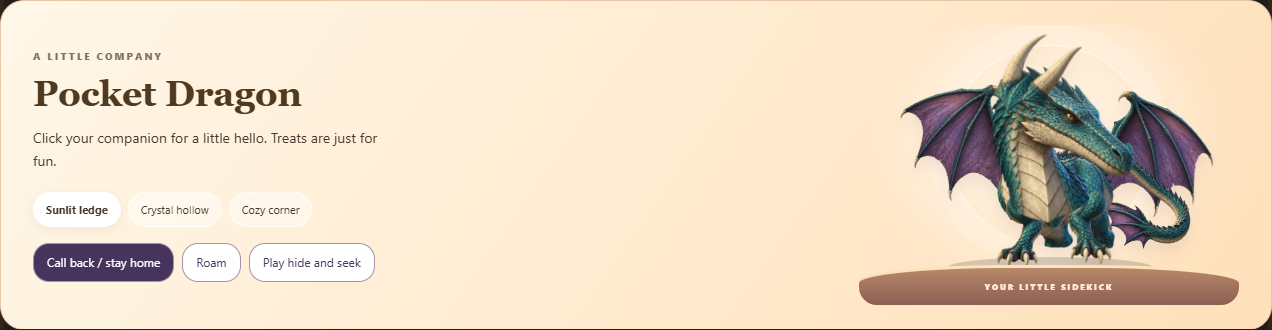
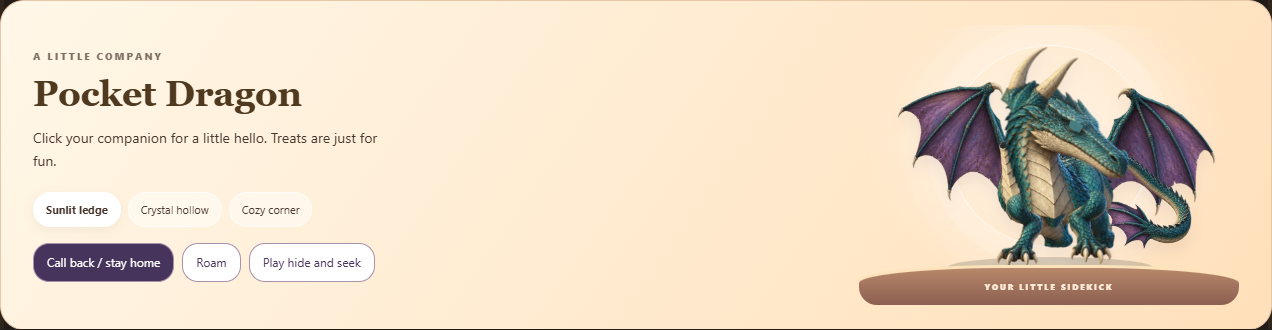
Fix validation bugs: prevent negative transfers/prices and self-transfers

Changed region(s): [[0.7052, 0.1212, 0.9811, 0.7576]]

diff --git a/public/companions.js b/public/companions.js
@@ -1,27 +1,30 @@
-/* Textured animal companions: each joint is a separate local cutout. */
+/* Rig v5: attached cutouts share a torso transform and explicit joint anchors. */
 (() => {
- const image=(kind,part,x,y,w,h)=>`<image href="assets/companions/${kind}/${part}.webp" x="${x}" y="${y}" width="${w}" height="${h}" preserveAspectRatio="xMidYMid meet"/>`;
+ const image=(kind,part,x,y,w,h)=>`<image href="assets/companions/${kind}/${part}.webp?v=rig5" x="${x}" y="${y}" width="${w}" height="${h}" preserveAspectRatio="xMidYMid meet"/>`;
  const joint=(cls,x,y,content)=>`<g class="${cls}" style="transform-box:view-box;transform-origin:${x}px ${y}px">${content}</g>`;
  const rigs={
-  fox:{body:[87,109,123,108],head:[67,75,132,91],tail:[158,150,105,75],left:[97,53,40,51],right:[144,54,38,51],pawLeft:[103,159,37,65],pawRight:[156,161,37,64],crest:[132,83,13,19],neck:[132,149]},
-  dragon:{body:[96,119,120,97],head:[100,62,123,132],tail:[178,131,99,83],left:[13,65,115,132],right:[183,66,110,132],pawLeft:[101,169,49,62],pawRight:[161,169,50,62],crest:[103,35,75,66],neck:[149,152]},
-  snail:{body:[38,126,229,100],head:[41,141,63,71],tail:[96,76,137,139],left:[47,101,28,68],right:[75,103,28,68],pawLeft:[34,173,26,22],pawRight:[67,175,25,21],crest:[150,76,18,25],neck:[74,187]}
+  fox:{body:[91,111,119,108],head:[87,69,105,97],tail:[158,150,105,75],left:[101,48,36,46],right:[143,50,33,45],pawLeft:[103,159,37,65],pawRight:[156,161,37,64],crest:[145,85,10,14],neck:[131,150]},
+  dragon:{body:[96,119,120,97],head:[102,76,126,115],tail:[178,131,99,83],left:[13,65,115,132],right:[183,66,110,132],pawLeft:[101,169,49,62],pawRight:[161,169,50,62],crest:[108,46,68,57],neck:[149,152]},
+  snail:{body:[33,145,231,80],head:[50,158,48,54],tail:[96,76,137,139],left:[51,126,21,52],right:[75,127,21,52],pawLeft:[43,181,21,17],pawRight:[69,184,19,16],crest:[150,76,18,25],neck:[74,187]}
  };
  function draw(kind){
   const r=rigs[kind],part=(name,box)=>image(kind,name,...box);
   const tailAnchor=kind==='fox'?[184,174]:kind==='dragon'?[199,187]:[162,205];
   const tail=joint(kind==='snail'?'companion-shell':'companion-tail',...tailAnchor,part('tail',r.tail));
   const wings=kind==='dragon'?joint('companion-wing wing-left',120,159,part('left',r.left))+joint('companion-wing wing-right',184,160,part('right',r.right)):'';
-  const earAnchors=kind==='fox'?[[130,89],[152,89]]:[[63,163],[89,165]];
+  const earAnchors=kind==='fox'?[[130,84],[151,83]]:[[66,174],[86,175]];
   const ears=kind==='dragon'?'':joint('companion-ear',...earAnchors[0],part('left',r.left))+joint('companion-ear companion-ear-right',...earAnchors[1],part('right',r.right));
-  const lids=kind==='fox'?'<g class="companion-eyelids"><path d="M134 100q8-3 13 3l-1 4q-8 1-13-4Z" fill="#ac6834"/><path d="M163 100q4-3 7 1l-1 5-6-1Z" fill="#ac6834"/><path d="m135 103 10 1m19-1 5 1" stroke="#583c28" stroke-width=".7"/></g>':kind==='dragon'?'<g class="companion-eyelids"><path d="M163 99q7-1 12 7l-4 5q-8-3-10-7Z" fill="#467f83"/><path d="m164 104 9 4" stroke="#243d37" stroke-width=".8"/></g>':'';
+  const lids=kind==='fox'?'<g class="companion-eyelids"><path d="M140 96q8-3 14 4l-2 4q-8 0-12-4Z" fill="#ac6834"/><path d="M172 96q4-2 6 2l-1 5-5-1Z" fill="#ac6834"/></g>':kind==='dragon'?'<g class="companion-eyelids"><path d="M168 108q6-1 11 5l-3 5q-8-2-9-6Z" fill="#467f83"/></g>':'';
   const head=joint('companion-head',...r.neck,ears+part('head',r.head)+lids+(kind==='snail'?'':part('crest',r.crest)));
   const paws=joint('companion-paw care-paw-left',r.pawLeft[0]+20,r.pawLeft[1]+8,part('paw-left',r.pawLeft))+joint('companion-paw care-paw-right',r.pawRight[0]+20,r.pawRight[1]+8,part('paw-right',r.pawRight));
-  const body=joint('companion-body',150,214,part('body',r.body)+paws+head);
-  return wings+(kind==='snail'?body+tail:tail+body);
+  // Everything attached to the torso shares breathing motion. Separate joints
+  // animate inside it, so wings, tail and shell cannot drift away from the body.
+  const torso=part('body',r.body);
+  const layers=kind==='snail'?torso+tail+paws+head:wings+tail+torso+paws+head;
+  return joint('companion-body',150,220,layers);
  }
  window.companionArt=id=>{
   const kind=String(id).split(':')[1];if(!rigs[kind])return '';
-  return `<svg class="companion-illustration companion-textured" data-species="${kind}" viewBox="0 0 300 245" aria-hidden="true" focusable="false"><ellipse cx="151" cy="225" rx="88" ry="9" fill="#182722" opacity=".18"/><g class="companion-character"><g transform="translate(0 ${kind==='dragon'?-7:0})">${draw(kind)}</g></g><g class="companion-hearts" fill="#ff698d"><path d="M96 53c-19-17-27 5 0 21 28-19 18-37 0-21Z"/><path d="M218 25c-14-12-20 4 0 17 20-14 13-27 0-17Z"/></g></svg>`;
+  return `<svg class="companion-illustration companion-textured" data-species="${kind}" data-rig="5" viewBox="0 0 300 245" aria-hidden="true" focusable="false"><ellipse cx="151" cy="225" rx="88" ry="9" fill="#182722" opacity=".18"/><g class="companion-character"><g transform="translate(0 ${kind==='dragon'?-7:0})">${draw(kind)}</g></g><g class="companion-hearts" fill="#ff698d"><path d="M96 53c-19-17-27 5 0 21 28-19 18-37 0-21Z"/><path d="M218 25c-14-12-20 4 0 17 20-14 13-27 0-17Z"/></g></svg>`;
  };
 })();

diff --git a/public/companion-preview.html b/public/companion-preview.html
@@ -3,13 +3,13 @@
 <head>
 <meta charset="utf-8"><meta name="viewport" content="width=device-width,initial-scale=1">
 <title>Animal artwork preview</title>
-<link rel="stylesheet" href="ruby-shop.css?v=20261012-rig-brawl4">
+<link rel="stylesheet" href="ruby-shop.css?v=20261012-rig5-admin">
 <style>
 *{box-sizing:border-box}body{margin:0;background:#162b29;color:#f5ecd5;font:16px system-ui,sans-serif;padding:48px 28px;min-height:100vh}main{max-width:1240px;margin:auto}h1{font:clamp(32px,4vw,52px) Georgia,serif;margin:12px 0}p{color:#b9ccc2;line-height:1.6}.eyebrow{font-size:11px;letter-spacing:.24em;color:#d8b980}.gallery{display:grid;grid-template-columns:repeat(3,minmax(0,1fr));gap:22px;margin:32px 0}.animal-card{border:1px solid #577366;border-radius:22px;background:linear-gradient(145deg,#334a3b,#1b352d);padding:22px;overflow:hidden}.animal-art{height:310px;background:radial-gradient(ellipse at 50% 70%,#b2bb8740,transparent 65%);border-radius:18px}.animal-art svg.companion-illustration{width:100%;height:100%}.animal-card h2{font:26px Georgia,serif;margin:16px 0 8px}.animal-card p{font-size:13px;margin:0;min-height:42px}.controls{display:flex;gap:10px;flex-wrap:wrap;margin-top:20px}button{font:inherit;font-size:13px;border:1px solid #8ba68d;background:#e7dcc0;color:#253c32;border-radius:20px;padding:10px 16px;cursor:pointer}button:hover{background:#fff2d1}button:focus-visible{outline:3px solid #ffe09b;outline-offset:3px}.paused .companion-illustration *{animation-play-state:paused!important}.moving .care-paw-left{animation:preview-step .6s ease-in-out infinite}.moving .care-paw-right{animation:preview-step .6s ease-in-out -.3s infinite}.moving .companion-body{animation:preview-body .6s ease-in-out infinite}.moving [data-species=snail] .companion-body{animation:animal-breathe 1.4s ease-in-out infinite}@keyframes preview-step{50%{transform:translateY(-8px) rotate(5deg)}}@keyframes preview-body{50%{transform:translateY(-2px)}}@media(max-width:850px){.gallery{grid-template-columns:1fr}.animal-art{height:330px}body{padding:28px 16px}.animal-card p{min-height:0}}
 </style>
 </head>
 <body><main><div class="eyebrow">COMPANION ARTWORK · LIVE PREVIEW</div><h1>A little closer to the wild.</h1><p>Natural proportions, detailed materials, and independently animated parts.</p><div class="gallery" id="gallery"></div></main>
-<script src="companions.js?v=20261012-rig-brawl4"></script>
+<script src="companions.js?v=20261012-rig5-admin"></script>
 <script>
 const animals=[['fox','Red fox','Layered fur, pointed muzzle, alert ears, and a sweeping tail.'],['dragon','Crystal dragon','Reptilian scales, a long snout, leathery wings, and articulated claws.'],['snail','Crystal snail','A low crawling body, spiral shell, and independent sensory feelers.']];
 for(const [kind,name,description] of animals){const card=document.createElement('article');card.className='animal-card';card.innerHTML=`<div class="animal-art pet-play-art">${companionArt('pet:'+kind)}</div><h2>${name}</h2><p>${description}</p><div class="controls"><button data-action="motion" aria-pressed="false">Pause motion</button><button data-action="walk" aria-pressed="false">Move paws</button><button data-action="pet">Head scratch</button></div>`;const art=card.querySelector('.animal-art');let timer;card.addEventListener('click',event=>{const button=event.target.closest('button');if(!button)return;if(button.dataset.action==='motion'){const paused=card.classList.toggle('paused');button.textContent=paused?'Resume motion':'Pause motion';button.setAttribute('aria-pressed',paused);}if(button.dataset.action==='walk'){const moving=card.classList.toggle('moving');button.textContent=moving?'Idle stance':'Move paws';button.setAttribute('aria-pressed',moving);}if(button.dataset.action==='pet'){clearTimeout(timer);art.dataset.mood='';void art.offsetWidth;art.dataset.mood='pet';timer=setTimeout(()=>delete art.dataset.mood,2800);}});document.getElementById('gallery').append(card);}

diff --git a/public/village.js b/public/village.js
@@ -40,6 +40,13 @@
  function zoom(next,cx,cy){const r=viewport.getBoundingClientRect();cx??=r.width/2;cy??=r.height/2;next=Math.max(.4,Math.min(2.4,next));const ratio=next/camera.scale;camera.x=cx-(cx-camera.x)*ratio;camera.y=cy-(cy-camera.y)*ratio;camera.scale=next;clamp();paintCamera();}
  function reset(){const r=viewport.getBoundingClientRect();camera.scale=r.width<650?.73:Math.min(1.1,r.width/1340,r.height/870);camera.x=r.width/2-720*camera.scale;camera.y=r.height/2-470*camera.scale;initialized=true;clamp();paintCamera();}
  function focusBuilding(b){const r=viewport.getBoundingClientRect();camera.x=r.width/2-b.x*camera.scale;camera.y=r.height*.4-b.y*camera.scale;clamp();paintCamera();}
+ function greetAdmin(){
+  if(!data?.isAdmin)return;
+  document.getElementById('adminBuildGreeting')?.close();
+  const greeting=el('dialog','admin-build-greeting');greeting.id='adminBuildGreeting';greeting.setAttribute('aria-label','hi admin');
+  const message=el('p','','hi admin'),close=el('button','','Close');close.type='button';close.onclick=()=>greeting.close();
+  greeting.append(message,close);greeting.addEventListener('close',()=>greeting.remove(),{once:true});document.body.append(greeting);greeting.showModal();
+ }
  function select(b){if(travelling)return;if(plotEditor?.select(b)){inspector.hidden=true;return;}selected=b;for(const [id,tile] of tiles)tile.classList.toggle('selected',id===b.id);inspector.replaceChildren();inspector.hidden=false;
   const enter=el('button','village-entrance',b.name);enter.setAttribute('aria-label',`Enter ${b.name}`);enter.onclick=()=>travel(b);inspector.append(enter);
  }
@@ -76,7 +83,7 @@
   notice=el('span','village-preview-notice');notice.setAttribute('role','status');tools.append(levelSelect,notice);
   viewport=el('div','village-viewport');viewport.tabIndex=0;viewport.setAttribute('role','group');viewport.setAttribute('aria-label','Island map. Drag or swipe to explore, pinch to zoom. Arrow keys pan; plus and minus zoom.');
   world=el('div','village-world');world.innerHTML=VillageArt.terrain();viewport.append(world);IslandMinigames.mount(world);
-  for(const b of buildings){const tile=el('button','village-building');tile.type='button';tile.dataset.building=b.id;tile.style.left=b.x+'px';tile.style.top=b.y+'px';tile.style.zIndex=Math.round(b.y);tile.onclick=e=>{if(!unlocked(b))return;if(performance.now()<suppressUntil&&e.detail!==0){e.preventDefault();return;}select(b);};world.append(tile);tiles.set(b.id,tile);}
+  for(const b of buildings){const tile=el('button','village-building');tile.type='button';tile.dataset.building=b.id;tile.style.left=b.x+'px';tile.style.top=b.y+'px';tile.style.zIndex=Math.round(b.y);tile.onclick=e=>{if(!unlocked(b))return;if(performance.now()<suppressUntil&&e.detail!==0){e.preventDefault();return;}select(b);if(b.id==='townhall')greetAdmin();};world.append(tile);tiles.set(b.id,tile);}
   const caption=el('div','village-map-caption');caption.append(el('span','','THE COLLECTOR’S ISLE'),el('small','','Swipe to explore · Tap a building to enter'));
   const controls=el('div','village-camera-controls');for(const [label,text,fn] of [['Zoom out','−',()=>zoom(camera.scale/1.2)],['Recenter map','⌖',reset],['Zoom in','+',()=>zoom(camera.scale*1.2)]]){const b=el('button','',text);b.setAttribute('aria-label',label);b.onclick=fn;controls.append(b);}
   const footer=el('footer','village-footer');status=el('span');jump=el('select');jump.setAttribute('aria-label','Find a building');jump.append(new Option('Find a building…',''));buildings.forEach(b=>jump.append(new Option(b.name,b.id)));jump.onchange=()=>{const b=buildings.find(b=>b.id===jump.value);if(b){focusBuilding(b);select(b);}jump.value='';};footer.append(jump);

diff --git a/public/index.html b/public/index.html
@@ -8,9 +8,9 @@
   <link rel="preload" as="image" media="(orientation: portrait)" href="assets/village/loading-wallpaper-mobile.jpg" fetchpriority="high">
   <link rel="stylesheet" href="style.css">
   <link rel="stylesheet" href="studio.css">
-  <link rel="stylesheet" href="ruby-shop.css?v=20261012-rig-brawl4">
+  <link rel="stylesheet" href="ruby-shop.css?v=20261012-rig5-admin">
 <link rel="stylesheet" href="pack-cinema.css">
-<link rel="stylesheet" href="village.css">
+<link rel="stylesheet" href="village.css?v=20261012-rig5-admin">
 <link rel="stylesheet" href="village-interiors.css">
 <link rel="stylesheet" href="town-hall.css">
 <link rel="stylesheet" href="island-minigames.css">
@@ -572,15 +572,15 @@
   <p id="dyeModeStatus" role="status" aria-live="polite"></p>
 </div>
 <script src="dye-mode.js"></script>
-<script src="practice-engine.js?v=20261012-rig-brawl4"></script>
-<script src="brawl-turns.js?v=20261012-rig-brawl4"></script>
+<script src="practice-engine.js?v=20261012-rig5-admin"></script>
+<script src="brawl-turns.js?v=20261012-rig5-admin"></script>
 <script src="battle-effects.js"></script>
-<script src="practice-battle.js?v=20261012-rig-brawl4"></script>
+<script src="practice-battle.js?v=20261012-rig5-admin"></script>
 <script src="studio.js"></script>
-<script src="companions.js?v=20261012-rig-brawl4"></script>
+<script src="companions.js?v=20261012-rig5-admin"></script>
 <script src="companion-explorer.js"></script>
 <script src="pet-interactions.js"></script>
-<script src="ruby-shop.js"></script>
+<script src="ruby-shop.js?v=20261012-rig5-admin"></script>
 <script src="village-hit-shapes.js"></script>
 <script src="village-art.js"></script>
 <script src="hall-world.js"></script>
@@ -598,6 +598,6 @@
 <script src="market-street.js"></script>
 <script src="island-minigames.js"></script>
 <script src="player-profile.js"></script>
-<script src="village.js"></script>
+<script src="village.js?v=20261012-rig5-admin"></script>
 </body>
 </html>

diff --git a/public/village.css b/public/village.css
@@ -245,3 +245,10 @@
 .village-world.village-panning *{animation-play-state:paused!important;transition:none!important}
 .village-world.village-panning .village-building>svg,.village-world.village-panning .island-villager svg{filter:none!important}
 @media(pointer:coarse){.village-world .village-building>svg,.village-world .island-villager svg{filter:none!important}.village-world .village-building:hover>svg{translate:none}}
+
+/* Admin-only deployment check, displayed above the island's modal map. */
+.admin-build-greeting{position:fixed;inset:0;margin:0;width:100vw;height:100dvh;max-width:none;max-height:none;box-sizing:border-box;border:0;padding:24px;background:#142c32f5;color:#fff2c7;text-align:center;overflow:hidden}
+.admin-build-greeting[open]{display:grid;place-content:center}
+.admin-build-greeting p{margin:0;font:900 clamp(64px,18vw,260px)/1.05 system-ui,sans-serif;letter-spacing:-.05em}
+.admin-build-greeting button{position:absolute;right:24px;top:24px;padding:12px 22px;font:600 16px system-ui,sans-serif;border:1px solid #fff2c7;border-radius:12px;background:#fff2c7;color:#142c32;cursor:pointer}
+.admin-build-greeting::backdrop{background:#142c32cc}

diff --git a/public/practice-sw.js b/public/practice-sw.js
@@ -1,5 +1,5 @@
 /* Same URL/scope as the old practice worker, so existing installations migrate. */
-const CACHE='island-public-v4';
+const CACHE='island-public-v5';
 const root=new URL(self.registration.scope);
 const offline=new URL('offline.html',root).href;
 self.addEventListener('install',event=>event.waitUntil(caches.open(CACHE).then(cache=>cache.addAll([offline,new URL('assets/pwa/island-icon-v3-192.png',root).href]))));
